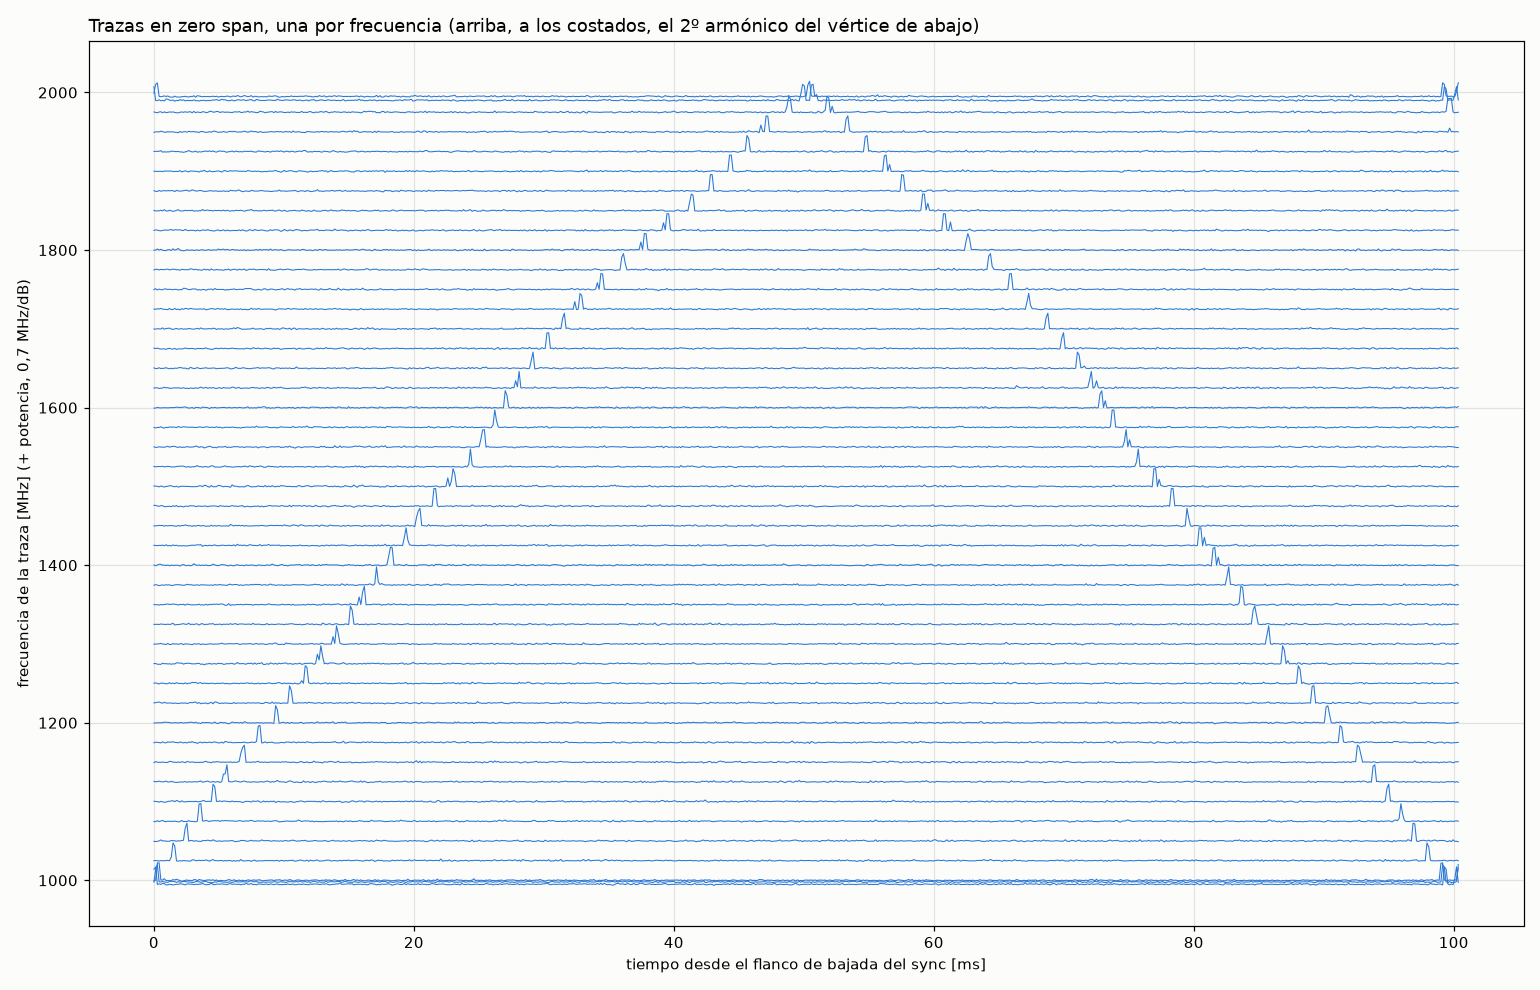
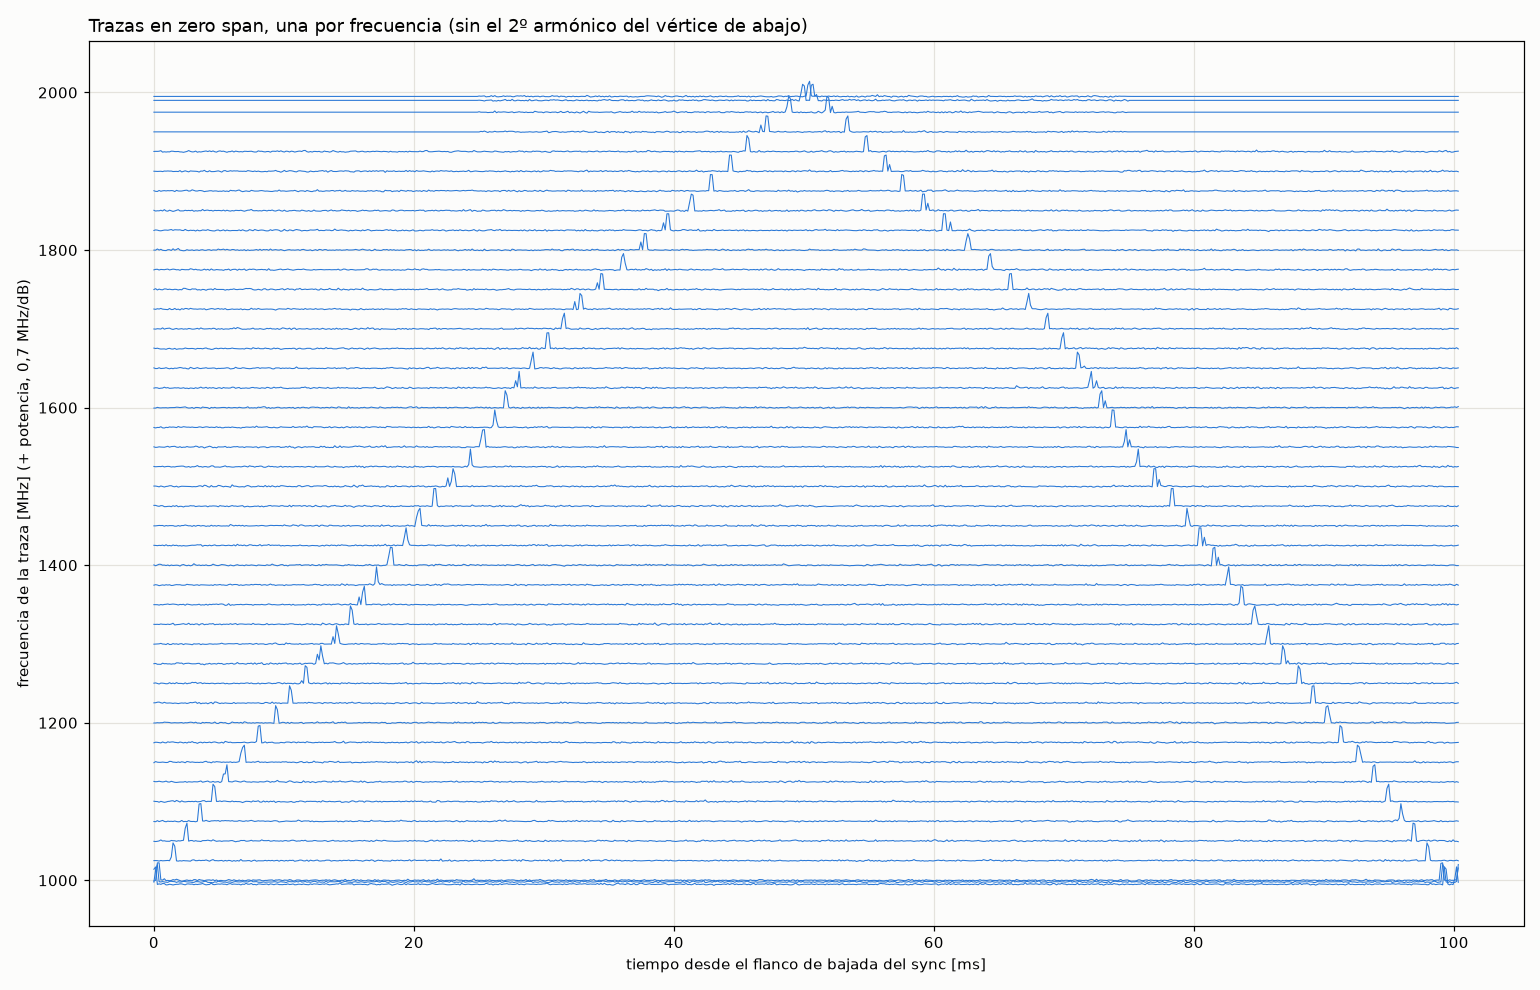
GPRv2: zero span sin el 2.o armonico y conclusiones de PWM/ADC
- analizar_zerospan.py descarta los pulsos del 2.o armonico (f_min pasa a 983 MHz)
  y regenera figuras y CSV
- README de PWM: conclusiones del 2026-11-07 al 09 (mediciones del 6/11,
  repetibilidad, saturacion del ADC, pasabajos de audio descartado)
- LEEME de simulaciones_meep/armonicos (cambio de otra sesion)

Changed region(s): [[0.2805, 0.0, 0.6234, 0.0303], [0.7481, 0.0909, 0.9662, 0.1212], [0.0935, 0.0909, 0.3117, 0.1212]]

diff --git a/GPRv2/docs/PWM/mediciones/analizar_zerospan.py b/GPRv2/docs/PWM/mediciones/analizar_zerospan.py
@@ -8,8 +8,8 @@ de cada traza son los instantes en que el chirp pasa por esa frecuencia (uno en 
 otro en la bajada). Con todas las frecuencias se arma f(t), df/dt, f(V) contra la curva
 estatica del VCO y el desvio respecto de una recta (lo que corrige el remuestreo).
 
-Arriba de 1950 MHz los pulsos cerca del vertice de abajo son el 2o armonico de f/2: dan
-puntos extra en el borde de abajo de la banda.
+Arriba de 1950 MHz los pulsos cerca del vertice de abajo son el 2o armonico de f/2: se
+descartan (no entran ni en los ajustes ni en las figuras).
 
 Genera zerospan_resumen.png, zerospan_trazas.png y zerospan_puntos.csv en la carpeta.
 
@@ -34,6 +34,9 @@ def leer(f):
     zero = fc == float(h["Stop Frequency"].split(",")[0])
     return fc, zero, np.arange(len(p)) * swt / (len(p) - 1), p
 
+def es_armonico(fc, tc):   # a ~2 GHz, cerca del vertice de abajo: 2o armonico de f/2
+    return fc >= 1.95e9 and abs(tc % T - T / 2) > 0.25 * T
+
 pts = []          # (f, t, nivel, archivo, es_armonico)
 crudo = {}
 for f in sorted(glob.glob(CARP + "/SSA_*.csv")):
@@ -46,8 +49,8 @@ for f in sorted(glob.glob(CARP + "/SSA_*.csv")):
         nivel = p[a:b].max()
         if nivel < p.max() - 8: continue                       # espurios de un punto, 15 dB abajo
         w = 10 ** (p[a:b] / 10); tc = np.sum(t[a:b] * w) / np.sum(w) % T
-        arm = fc >= 1.95e9 and abs(tc - T / 2) > 0.25 * T       # a ~2 GHz, cerca del vertice de abajo: 2o armonico de f/2
-        pts.append((fc / 2 if arm else fc, tc, nivel, os.path.basename(f), arm))
+        if es_armonico(fc, tc): continue                         # el 2o armonico no se usa
+        pts.append((fc, tc, nivel, os.path.basename(f), False))
 
 # la medicion repetida de 1025 MHz reemplaza a la que disparo tarde
 malos = {"SSA_261106174535.csv"}
@@ -102,7 +105,6 @@ xs = np.linspace(t_bot, t_top, 400); xb = np.linspace(t_top, t_bot + T, 400)
 a.plot(xs * 1e3, ps(xs) / 1e6, color=AZ, lw=1.2, alpha=.6); a.plot(xb * 1e3, pb(xb) / 1e6, color=AZ, lw=1.2, alpha=.6)
 tp = np.where(baja & (t < t_top), t + T, t)
 a.plot(tp[~arm] * 1e3, f[~arm] / 1e6, "o", color=AZ, ms=5, label="fundamental (zero span)")
-a.plot(tp[arm] * 1e3, f[arm] / 1e6, "s", color=NAR, ms=5, label="desde el 2º armónico (f/2)")
 a.axvline(t_top * 1e3, color=GR, ls=":"); a.axhline(f_max / 1e6, color=GR, ls=":"); a.axhline(f_min / 1e6, color=GR, ls=":")
 a.text(t_top * 1e3 + 1, f_max / 1e6 - 25, f"f_max {f_max/1e6:.0f} MHz", fontsize=9); a.text(1, f_min / 1e6 + 10, f"f_min {f_min/1e6:.0f} MHz", fontsize=9)
 a.set_title(f"Frecuencia del VCO en un período: subida {d_sube*1e3:.1f} ms, bajada {d_baja*1e3:.1f} ms", loc="left")
@@ -125,7 +127,6 @@ a = ax[1, 0]
 a.plot(vv, fv / 1e6, color=GR, lw=2, label="curva estática (2026-10-19)")
 a.plot(V(t[sube & ~arm]), f[sube & ~arm] / 1e6, "o", color=AZ, ms=5, label="subida")
 a.plot(V(t[baja & ~arm]), f[baja & ~arm] / 1e6, "o", mfc="none", mec=AZ, ms=6, label="bajada")
-a.plot(V(t[arm]), f[arm] / 1e6, "s", color=NAR, ms=5, label="desde el 2º armónico")
 a.set_title(f"f contra la tensión de la triangular (tomada lineal, {VMIN}–{VMAX} V del Tek)", loc="left")
 a.set_xlabel("V triangular [V]"); a.set_ylabel("MHz"); a.legend(loc="lower right"); a.set_xlim(-0.05, 3.4)
 # 4. desvio respecto de la recta entre vertices
@@ -148,9 +149,10 @@ for fc in sorted(crudo):
     nom, tr, p = crudo[fc][-1]
     if nom in malos and len(crudo[fc]) == 1: continue
     sel = [c for c in crudo[fc] if c[0] not in malos][-1]
-    a.plot(sel[1] * 1e3, fc / 1e6 + (sel[2] - np.median(sel[2])) * 0.7, color=AZ, lw=0.7)
+    pw = np.where(es_armonico(fc, sel[1]), np.median(sel[2]), sel[2])     # se tapa el 2o armonico
+    a.plot(sel[1] * 1e3, fc / 1e6 + (pw - np.median(sel[2])) * 0.7, color=AZ, lw=0.7)
 a.set_xlabel("tiempo desde el flanco de bajada del sync [ms]"); a.set_ylabel("frecuencia de la traza [MHz] (+ potencia, 0,7 MHz/dB)")
-a.set_title("Trazas en zero span, una por frecuencia (arriba, a los costados, el 2º armónico del vértice de abajo)", loc="left")
+a.set_title("Trazas en zero span, una por frecuencia (sin el 2º armónico del vértice de abajo)", loc="left")
 a.grid(color=GRID); a.set_facecolor(SUP); fig.tight_layout(); fig.savefig(SC + "/zerospan_trazas.png", dpi=110)
 np.savetxt(SC + "/zerospan_puntos.csv", np.c_[f / 1e6, t * 1e3, arm, sube], delimiter=",", header="f_MHz,t_ms,de_armonico,subida", fmt="%.3f")
 print("ok")

diff --git a/GPRv2/docs/PWM/README.md b/GPRv2/docs/PWM/README.md
@@ -68,7 +68,7 @@ huella de la biblioteca, que ya estaba).
 
 **Resultados del 2026-11-06:** triangular de 0,12 a 3,06 V con no linealidad de 0,1–0,3 %
 (el ~1 % y el escalón de 0,95 V que mostraba el Siglent eran del osciloscopio), subida y
-bajada con ~3 % de diferencia de pendiente. El VCO barre **985 a 1999 MHz** (1014 MHz),
+bajada con ~3 % de diferencia de pendiente. El VCO barre **983 a 1999 MHz** (1016 MHz),
 la subida dura 50,5 ms y la bajada 49,4 ms, df/dt va de ~14 a ~27 MHz/ms y f(t) se aparta
 hasta ~78 MHz de una recta.
 
@@ -90,3 +90,76 @@ hasta ~78 MHz de una recta.
 - La triangular de la tanda 2 está ~0,15 V más alta que la de la tanda 1. Se usa así y se
   corrige en el código.
 - **Armónicos del VCO**: ver la sección "Pendiente: armónicos del VCO" en `GPRv2/CLAUDE.md`.
+
+## Conclusiones y decisiones (2026-11-07 al 2026-11-09)
+
+Notas para el escrito de la tesis.
+
+**El 2.º armónico se sacó de las figuras del zero span** (2026-11-07). `analizar_zerospan.py`
+descarta los pulsos de arriba de 1950 MHz que caen cerca del vértice de abajo
+(`es_armonico()`), y en las trazas los tapa con la mediana. Quedan 91 puntos, todos de la
+fundamental. Como esos puntos marcaban el borde de abajo, `f_min` sale del ajuste y pasa
+de 985 a **983 MHz**. El resto no cambió. El Max Hold (`vco_maxhold.png`) queda con el
+armónico, porque ahí es lo que se mide.
+
+**Lo que muestran las mediciones del 2026-11-06.**
+
+- La triangular es muy lineal (0,1–0,3 % con el Tek) y sus armónicos impares caen donde
+  los pone una triangular ideal. El ~1 % y el escalón de 0,95 V eran del Siglent, aunque
+  también pesó haber medido a 1 V/div y en modo scan.
+- La no linealidad del chirp es casi toda del VCO. f(V) en barrido coincide con la curva
+  estática con 10–20 MHz de diferencia entre 1,5 y 2,6 V. Los ~80 MHz de desvío de una
+  recta y el df/dt de 14 a 27 MHz/ms son de la curva del VCO, que es lo que corrige el
+  remuestreo.
+- No hay recorte en los extremos y el período es estable (46 trazas que cierran en una
+  curva continua con ~4 MHz rms de residuo).
+- Subida y bajada difieren ~3 % en pendiente (50,5 y 49,4 ms). Cada rampa necesita su
+  propio mapa θ.
+- La resolución del zero span es acotada (cada 25 MHz, ~2,7 MHz por punto de traza), así
+  que los picos puntuales de df/dt tienen bastante incertidumbre. f(t) está bien
+  determinada.
+
+**Repetibilidad.** Se da por demostrada para la **curva del VCO**, con tres mediciones en
+días distintos que dan casi lo mismo (la primera, una en un día de mucho calor y la del
+2026-11-06 en barrido). Lo que no está demostrado es el **nivel de continua de la
+triangular**, que se corrió ~0,15 V entre la tanda 1 y la 2 con el mismo osciloscopio
+(en la zona media del VCO son ~50 MHz). Se compensa en el código. Para cerrarlo alcanza
+con medir los vértices con el Tek en dos o tres encendidos.
+
+**Las capturas del ADC no saturan** (2026-11-09). Revisadas las 10 capturas del PCM1808 en
+`GPRv2/datos/` (18/9 y 28/9), fondo de escala ±8 388 608 cuentas (±1,5 V).
+
+| captura | pico | margen hasta saturar | rms | piso 2,5–2,9 kHz |
+|---|---|---|---|---|
+| 18/9 (6 capturas) | 37–46 % FS | 6,7–8,7 dB | −16 a −20 dBFS | −61 a −74 dBFS |
+| 28/9 17:37 y 17:42 | 30 % FS | 10,5 dB | −20 dBFS | −69,5 dBFS |
+| 28/9 17:53:54 | 43 % FS | 7,4 dB | −17 dBFS | −62,5 dBFS |
+| 28/9 17:53:18 (casi sin señal) | 0,2 % FS | 56 dB | −64 dBFS | −105 dBFS |
+
+- Ninguna muestra pasa del 95 % del fondo de escala. Quedan 7 a 10 dB de margen, así que
+  una ganancia de ×2 ya las dejaría al borde. Lo que domina la amplitud es el
+  acoplamiento directo entre antenas (pico de 380–620 Hz, a −19/−25 dBFS).
+- **La ganancia no mejoraría la relación señal/ruido.** El piso propio del ADC y la IF es
+  ~−105 dBFS por bin (captura casi sin señal, probablemente con la RF apagada). Con el
+  radar andando el piso está 30 a 40 dB más arriba, o sea que viene de antes del ADC
+  (mezclador, ruido de fase, clutter, desparramo del chirp no lineal). Un amplificador
+  sube señal y piso por igual. El espectro se calculó en bloques de 300 muestras sin
+  alinear con las rampas, así que parte del piso puede ser desparramo de los vértices.
+- Si hiciera falta más ganancia (blancos lejanos y débiles), el lugar es la RF, no la IF.
+
+**Pasabajos de audio con potenciómetro (500 Hz a 2 kHz), descartado por ahora**
+(2026-11-09). La idea era cortar todo lo que está "fuera de rango" para sacar el fantasma
+en 2·fd que deja el 2.º armónico. No conviene en analógico.
+
+- Entre fd y 2·fd hay una sola octava. Una octava arriba de fc un RC atenúa ~7 dB, un
+  Butterworth de orden 2 ~12 dB y uno de orden 4 ~24 dB. Como fc tiene que quedar algo
+  arriba de fd, en 2·fd es todavía menos. Solo un elíptico de orden 8 (por ejemplo el
+  MAX7400 de capacitor conmutado, con fc fijada por un clock del ESP32) separa bien una
+  octava.
+- Como el ADC no satura, el fantasma entra digitalizado sin comerse rango dinámico.
+  **Sacarlo en software alcanza y es mejor** (corte de distancia ajustable en `vivo.py`,
+  o restarlo, porque su posición y su fase se conocen).
+- En los dos casos, si hay un blanco real más lejos, el corte también lo borra.
+
+Por eso se pasó a filtrar el armónico en RF, en la rama de TX. Ver
+[`../FILTRO_RF/README.md`](../FILTRO_RF/README.md).

diff --git a/GPRv2/simulaciones_meep/armonicos/LEEME.md b/GPRv2/simulaciones_meep/armonicos/LEEME.md
@@ -21,8 +21,15 @@ Doble click en **`GPRv2/simular_armonicos.bat`**:
 Con `MEEP=0` en el `.bat` se saltea el paso 1. Sirve si las escenas ya están y solo
 cambió el modelo.
 
-En la máquina de Martín, Miniforge y el env `meep` están en **`D:\WSL\miniforge3`**,
-porque el C: está lleno. `correr_meep.sh` usa ese o, si no existe, `~/miniconda3`.
+**El paso 1 necesita WSL con MEEP.** En noviembre de 2026 Martín sacó WSL de su máquina.
+Los `.npz` de `salidas/` ya están en el repo, así que el paso 2 anda solo, con `MEEP=0` en
+el `.bat`. Para volver a correr MEEP hay dos caminos:
+
+- Correrlo en la máquina de Santiago, donde el env está en `~/miniconda3`.
+- Reinstalar WSL y crear el env con
+  `conda create -n meep -c conda-forge pymeep=*=nompi* python=3.12 numpy scipy`.
+
+`correr_meep.sh` busca primero `D:\WSL\miniforge3` y después `~/miniconda3`.
 
 ## Qué hay en cada archivo
 
